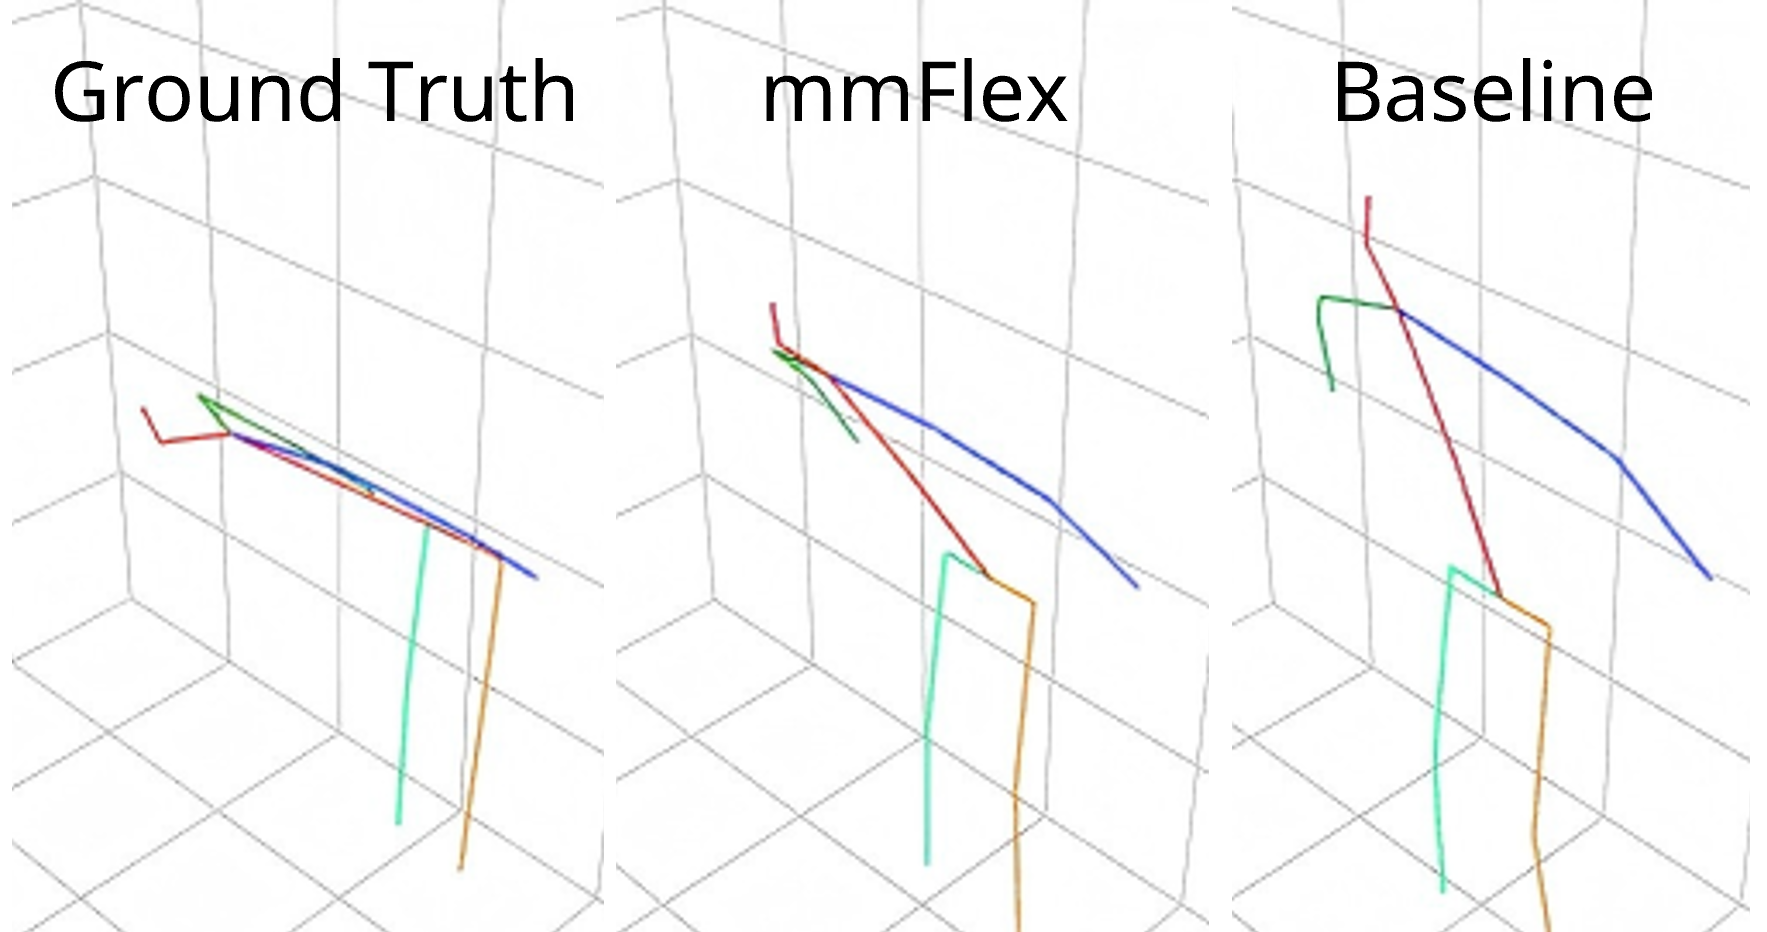
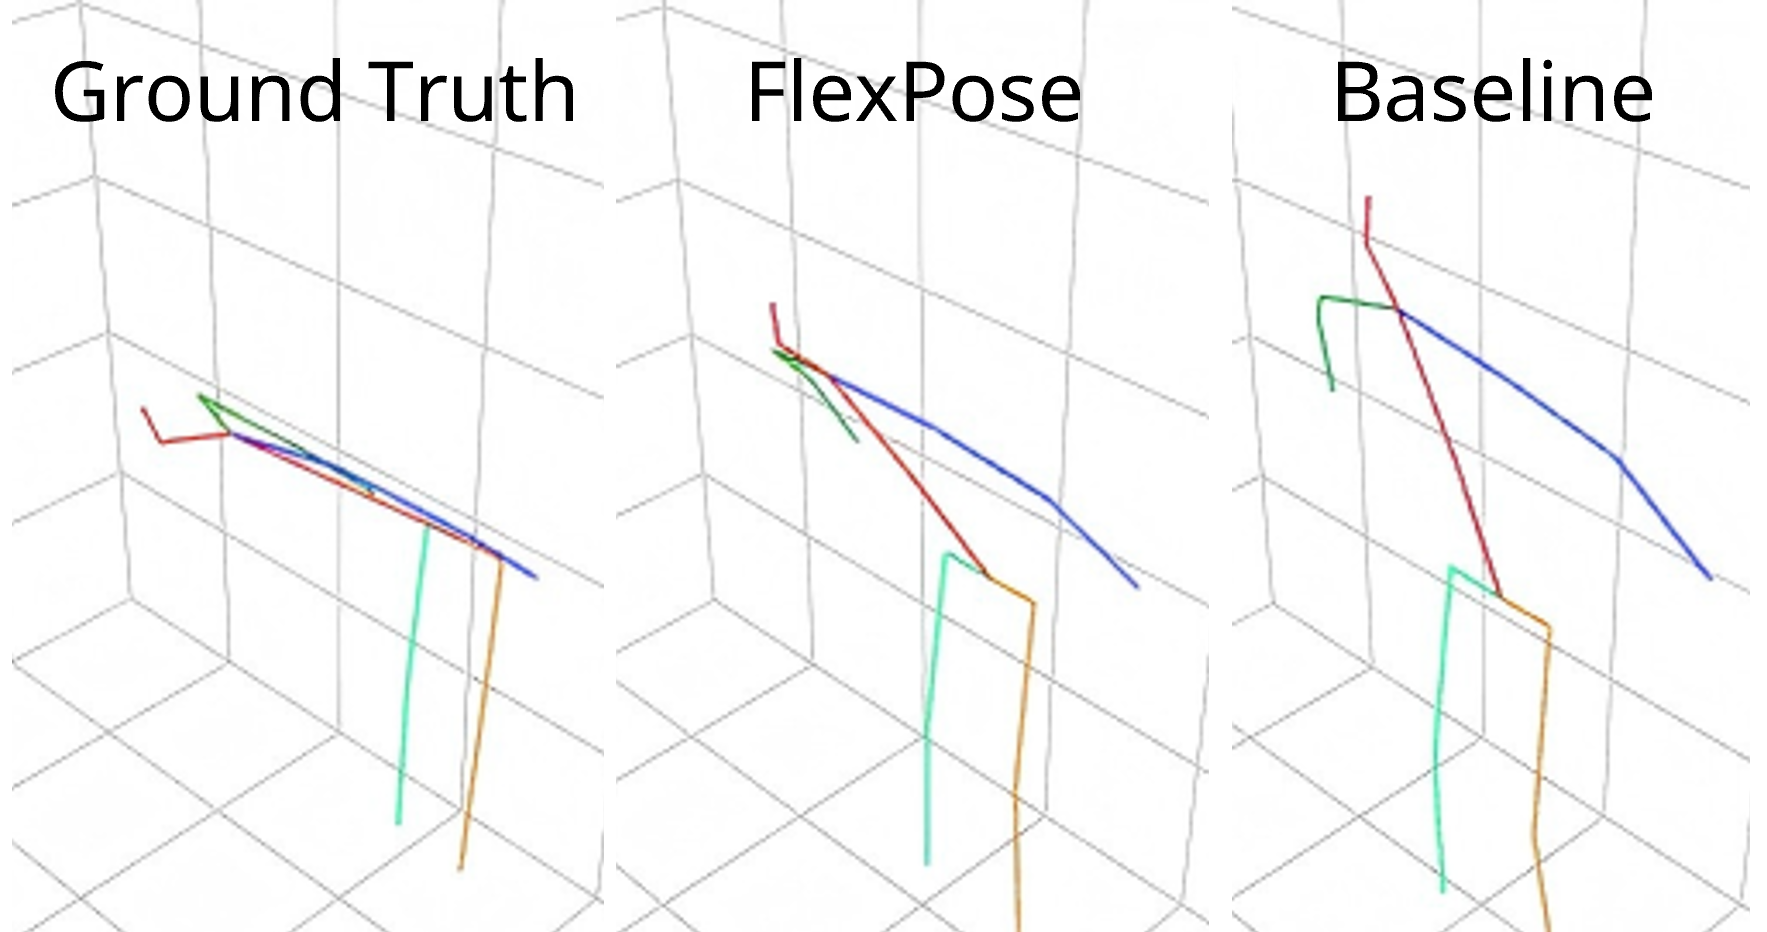
Update teaching and students

Changed region(s): [[0.4046, 0.0622, 0.6225, 0.1556]]

diff --git a/_teaching/2026-fall-teaching.md b/_teaching/2026-fall-teaching.md
@@ -1,0 +1,12 @@
+---
+title: "Computer Networks"
+collection: teaching
+type: "Undergraduate course"
+permalink: /teaching/2026-fall-teaching
+external: https://huangqy89.github.io/cn-2026/
+excerpt: "This course offers an in-depth exploration of computer networks, adopting a top-down approach to present the fundamental concepts and principles. Beginning with application-layer protocols, such as HTTP, FTP, and DNS, the course progressively delves into transport, network, and link-layer mechanisms, including TCP/IP, routing algorithms, and data link technologies. Through this approach, students will gain a holistic understanding of how the Internet functions, from high-level applications to low-level data transmission."
+time: "Fall 2026"
+date: 2026-09-07
+location: "Guangzhou, China"
+poster: /images/courses/computer-networks.png
+---

diff --git a/_teaching/2026-fall-teaching-graduate.md b/_teaching/2026-fall-teaching-graduate.md
@@ -1,0 +1,12 @@
+---
+title: "Advanced Computer Networks"
+collection: teaching
+type: "Postgraduate Courses"
+permalink: /teaching/2026-fall-teaching-graduate
+external: https://huangqy89.github.io/acn-2026/
+excerpt: "This graduate course explores research and emerging systems in computer networks. Building on undergraduate networking fundamentals, it examines networking for AI, AI for networking, satellite communication, wireless and mobile networks, and edge computing. Lectures introduce key concepts and system designs, while paper presentations and discussions help students critically assess research problems, technical approaches, experimental evidence, and open challenges."
+time: "Fall 2026"
+date: 2026-09-07
+location: "Guangzhou, China"
+poster: /images/courses/advancd-computer-networks.jpg
+---

diff --git a/_teaching/2025-fall-teaching.md b/_teaching/2025-fall-teaching.md
@@ -4,7 +4,6 @@ collection: teaching
 type: "Undergraduate course"
 permalink: /teaching/2025-fall-teaching
 #external: https://huangqy89.github.io/cn-2025/
-excerpt: "This course offers an in-depth exploration of computer networks, adopting a top-down approach to present the fundamental concepts and principles. Beginning with application-layer protocols, such as HTTP, FTP, and DNS, the course progressively delves into transport, network, and link-layer mechanisms, including TCP/IP, routing algorithms, and data link technologies. Through this approach, students will gain a holistic understanding of how the Internet functions, from high-level applications to low-level data transmission."
 time: "Fall 2025"
 date: 2025-09-01
 location: "Guangzhou, China"

diff --git a/_student/13_PhD_Jie Xiao.md b/_student/13_PhD_Jie Xiao.md
@@ -1,6 +1,6 @@
 ---
 title: "Jie Xiao"
-excerpt: "Master, SYSU, 2024.09-"
+excerpt: "Ph.D, SYSU, 2024.09-"
 collection: student
 order: 13
 ---

diff --git a/_student/21_Master_Zixuan Ding.md b/_student/21_Master_Zixuan Ding.md
@@ -1,0 +1,6 @@
+---
+title: "Zixuan Ding"
+excerpt: "Master, SYSU, 2026.09-"
+collection: student
+order: 21
+---

diff --git a/_student/22_Master_Haoxuan Zhu.md b/_student/22_Master_Haoxuan Zhu.md
@@ -1,0 +1,6 @@
+---
+title: "Haoxuan Zhu"
+excerpt: "Master, SYSU, 2026.09-"
+collection: student
+order: 21
+---

diff --git a/_student/23_Master_Weitong Wu.md b/_student/23_Master_Weitong Wu.md
@@ -1,0 +1,6 @@
+---
+title: "Weitong Wu"
+excerpt: "Master, SYSU, 2026.09-"
+collection: student
+order: 21
+---
